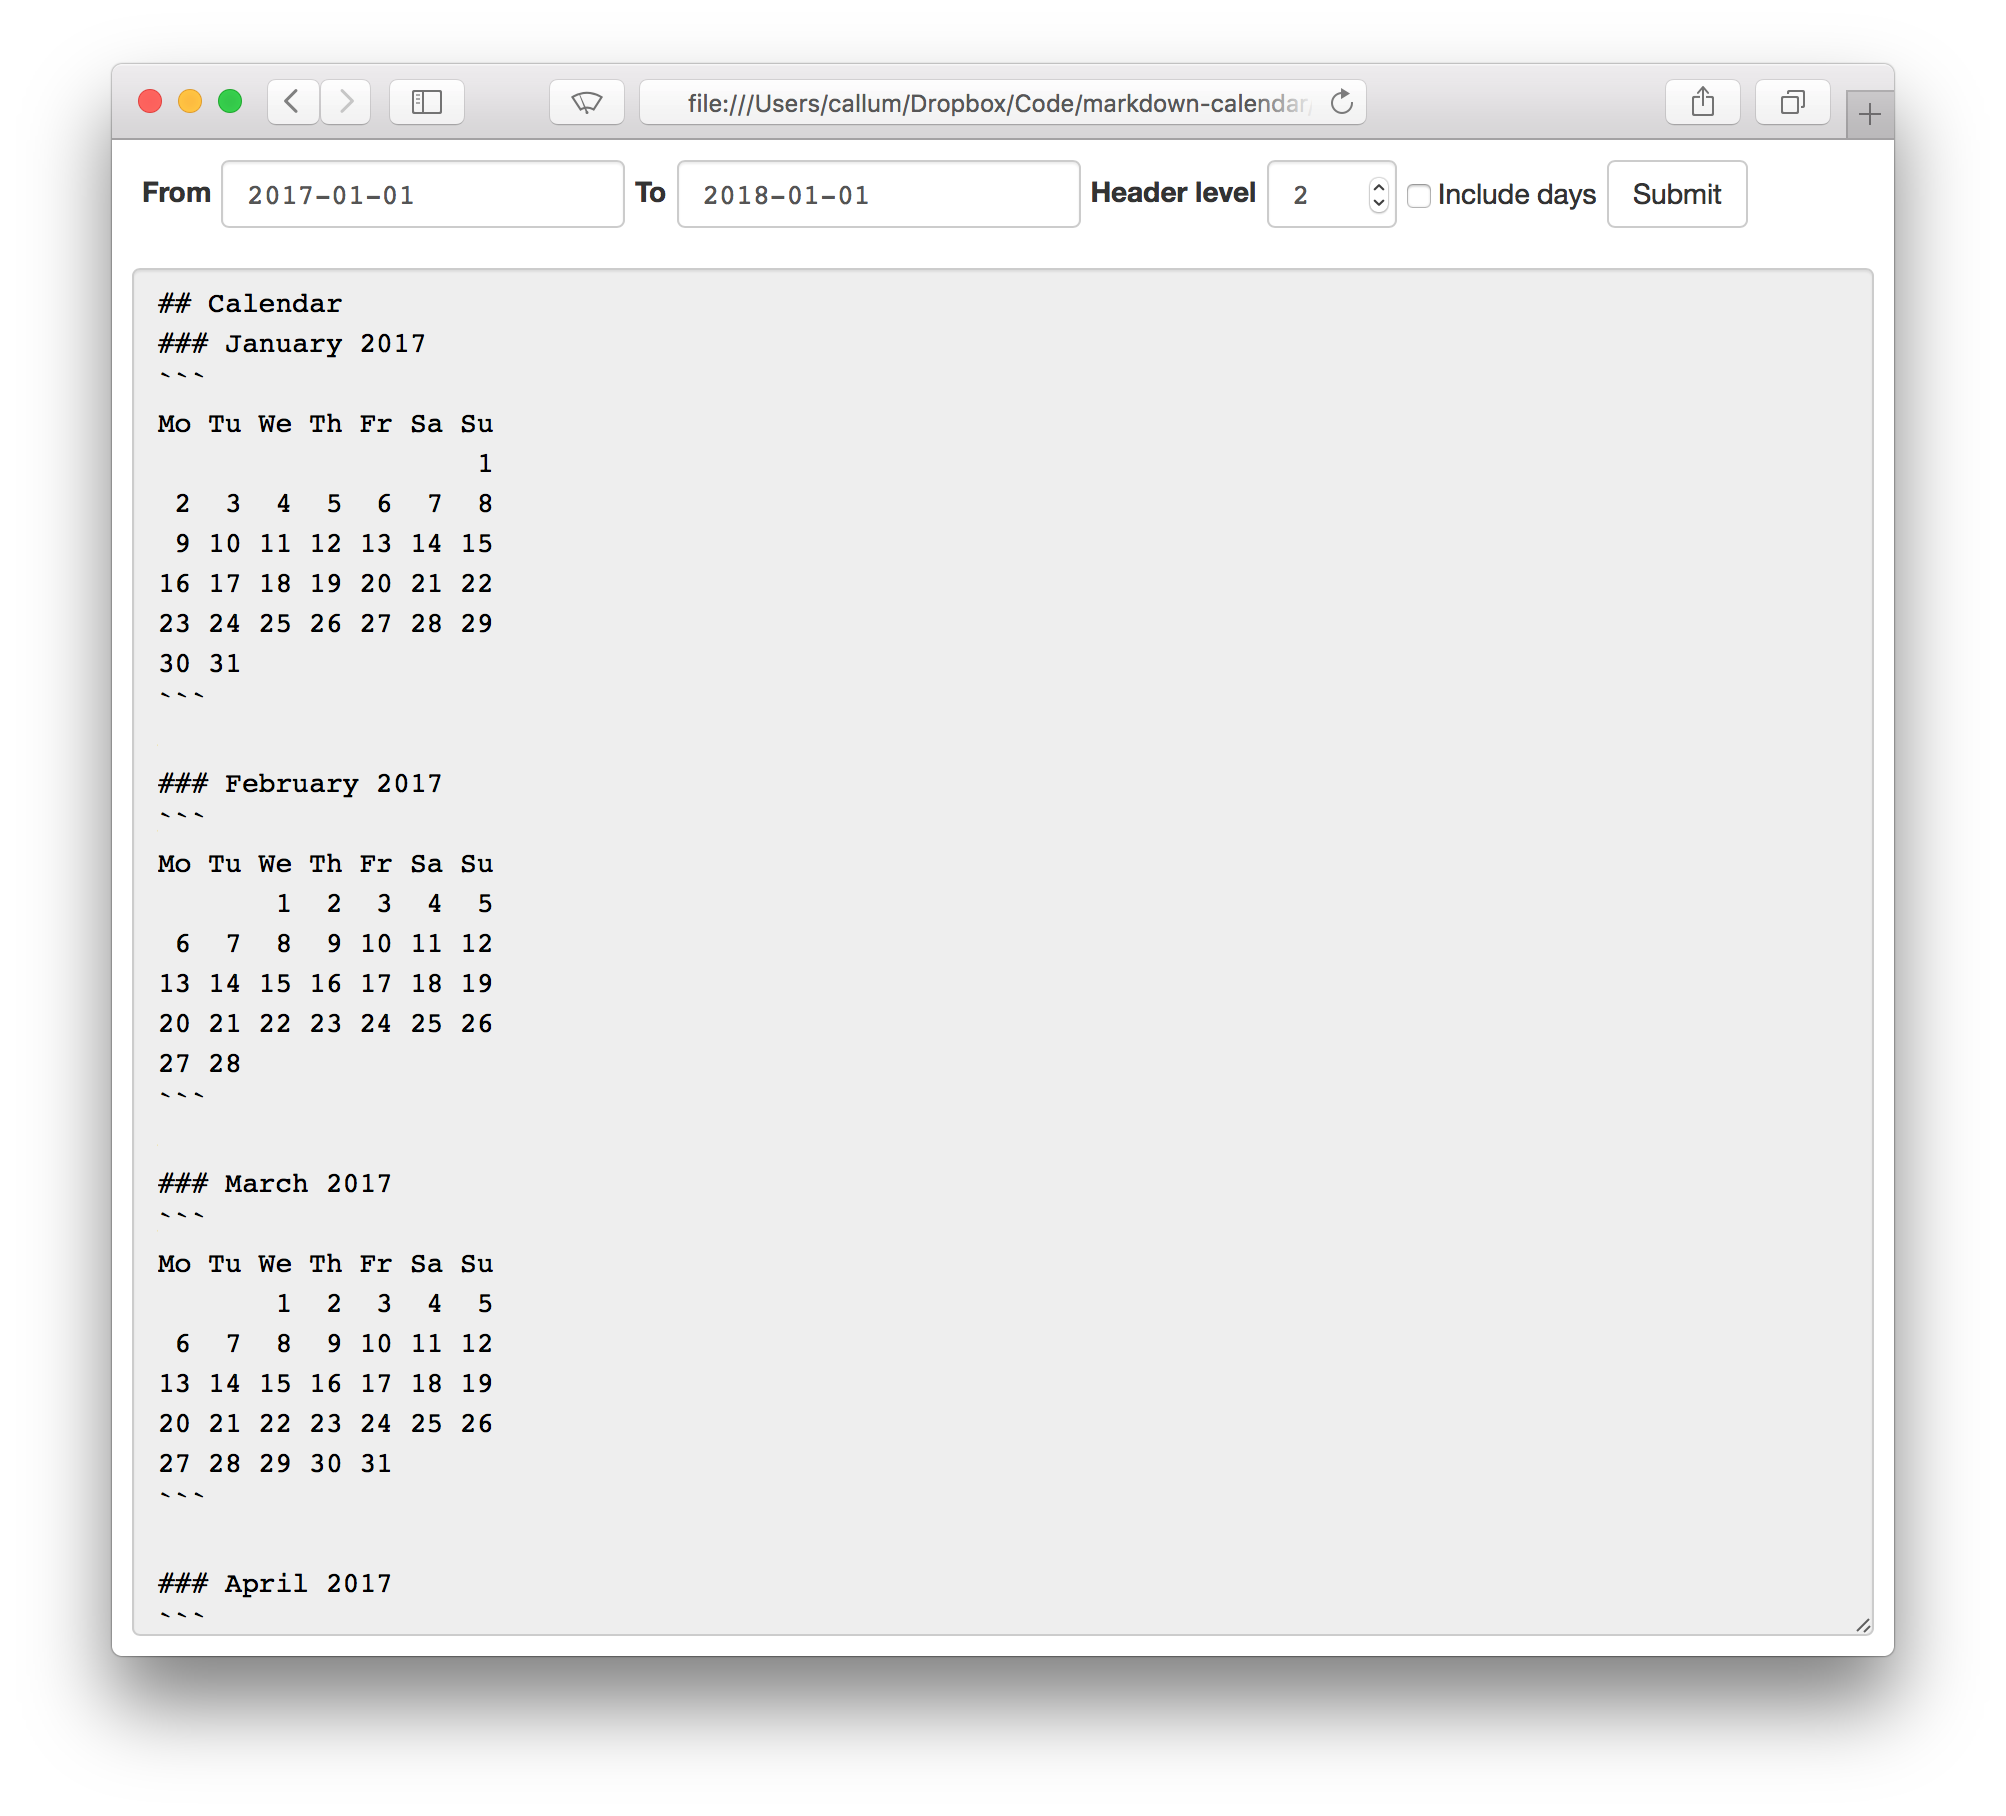
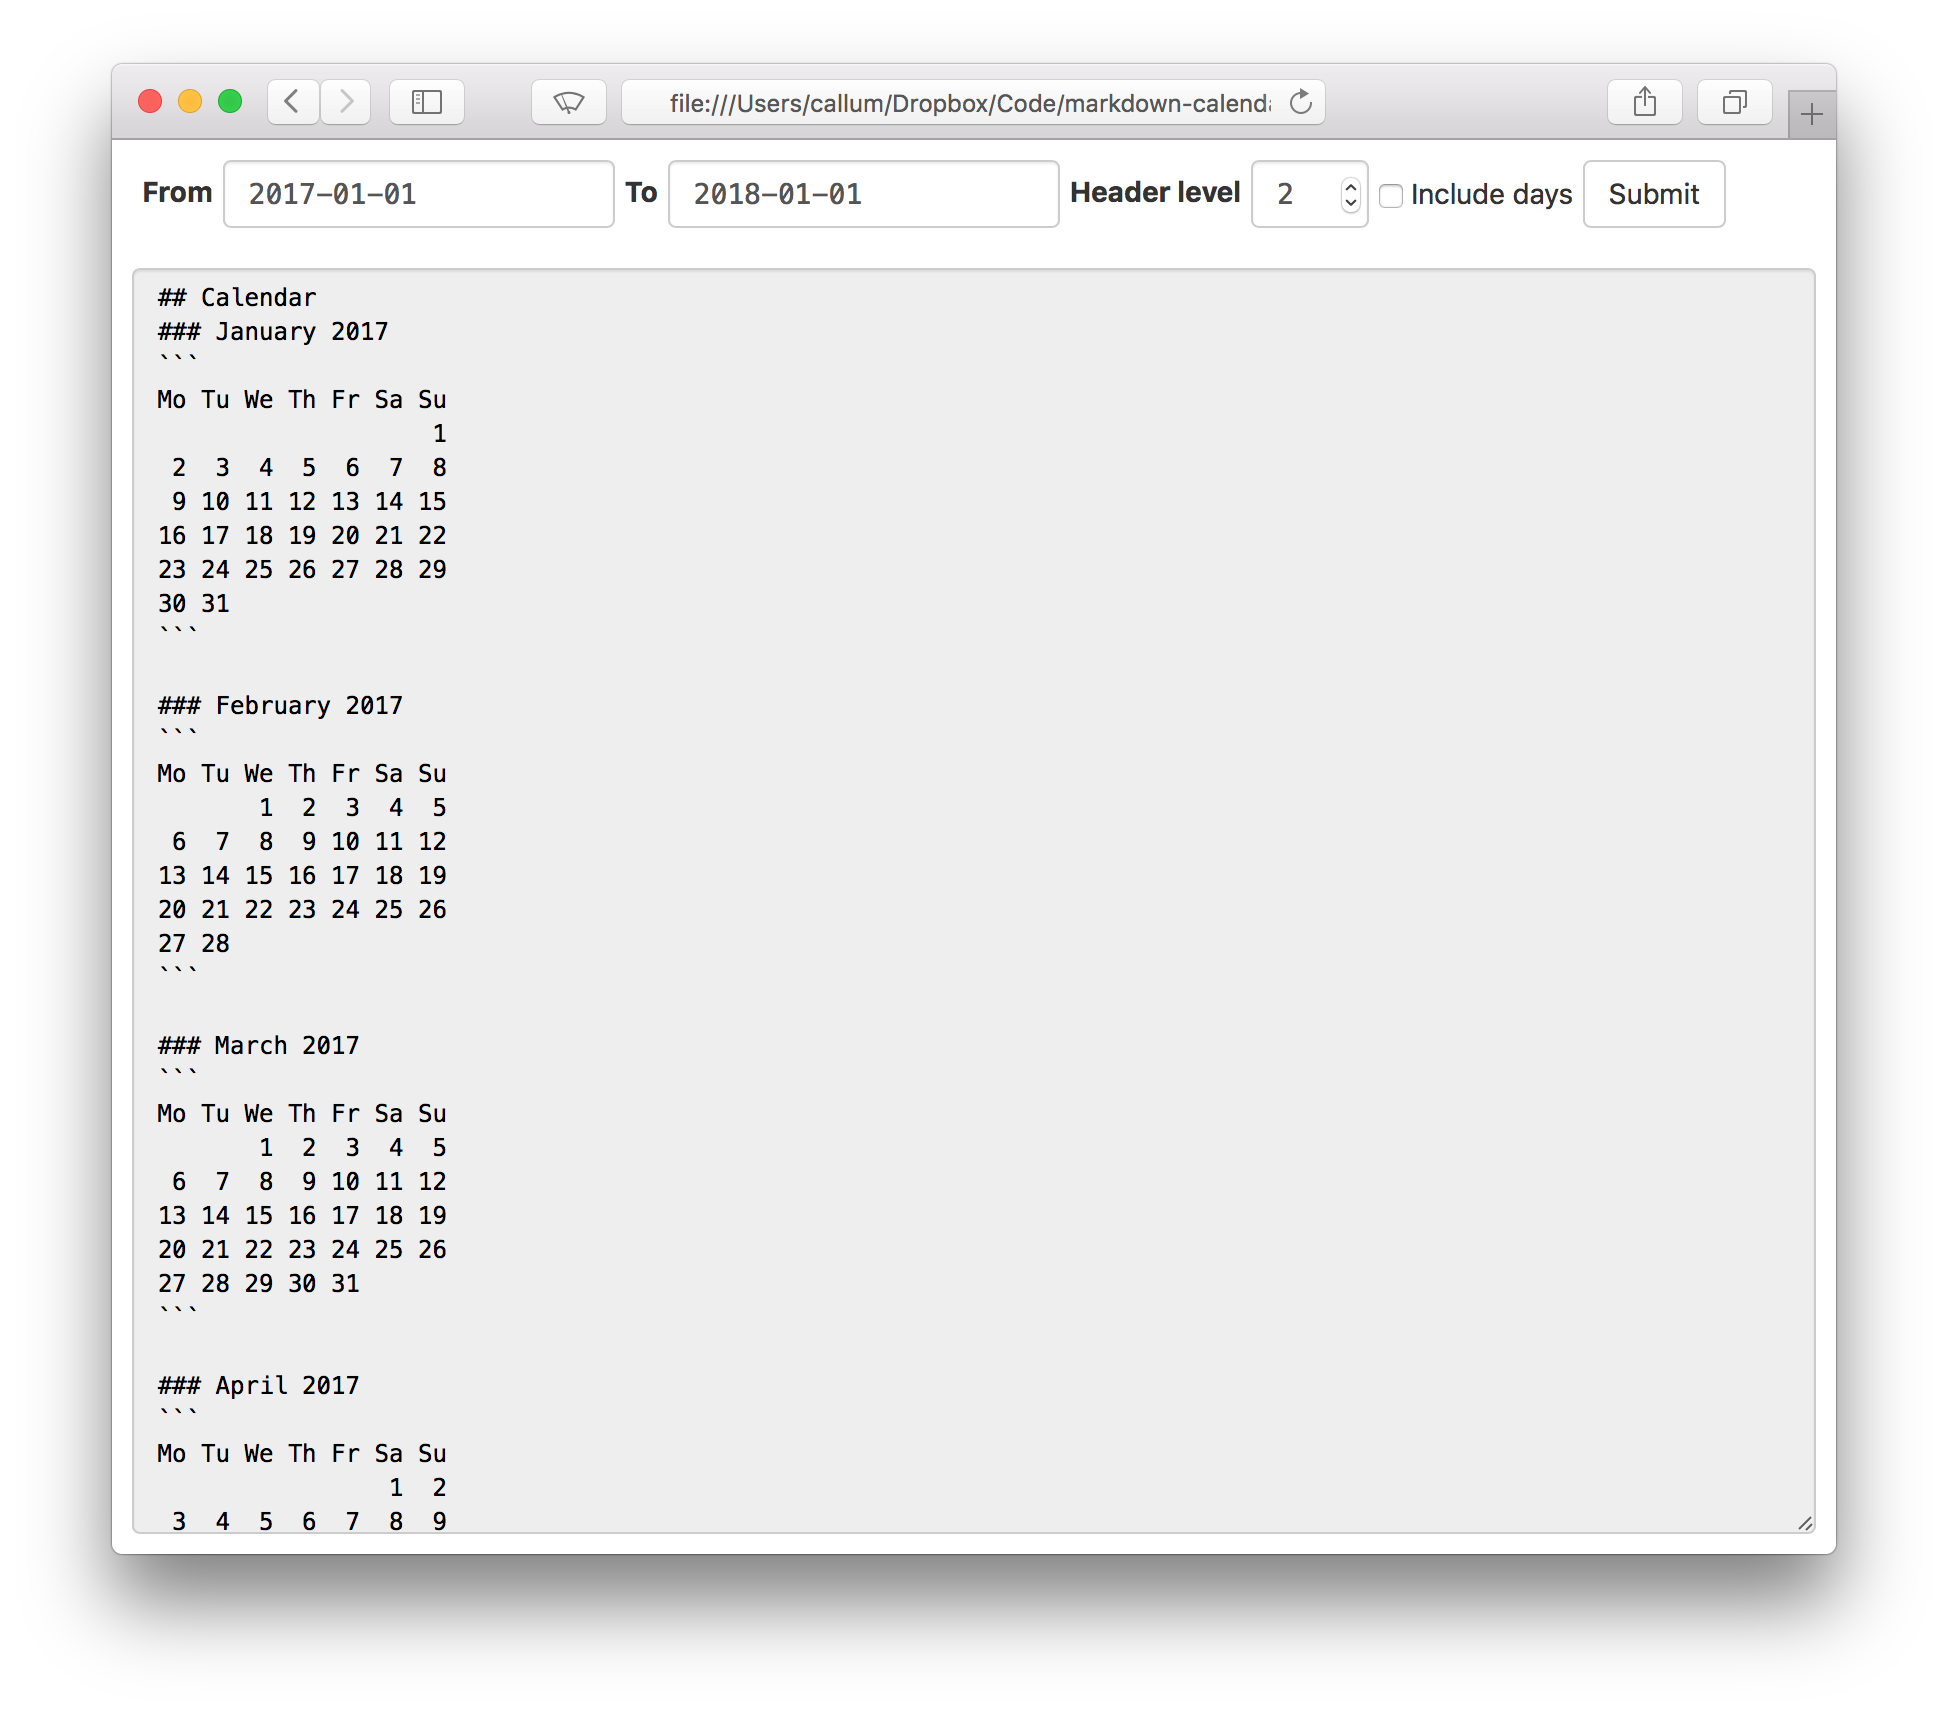
messed with fonts

Changed region(s): [[0.0616, 0.0309, 0.9548, 0.9277]]

diff --git a/style.css b/style.css
@@ -1,5 +1,6 @@
-body, html, body > div
+body, html, #markdown-calendar
   { height: 100%
+  ; font-family: -apple-system, ".SFNSText-Regular", "San Francisco", "Roboto", "Segoe UI", "Helvetica Neue", "Lucida Grande", sans-serif;
   }
 
 .wrapper
@@ -25,10 +26,11 @@ label
   }
 
 input
-  { font-family: monospace
+  { font-family: Menlo, Monaco, "Courier New", Courier, monospace;
   }
 
-textarea
-  { font-family: monospace
+textarea.form-control
+  { font-family: Menlo, Monaco, "Courier New", Courier, monospace;
+  ; font-size: 12px
   ; flex: auto
   }
